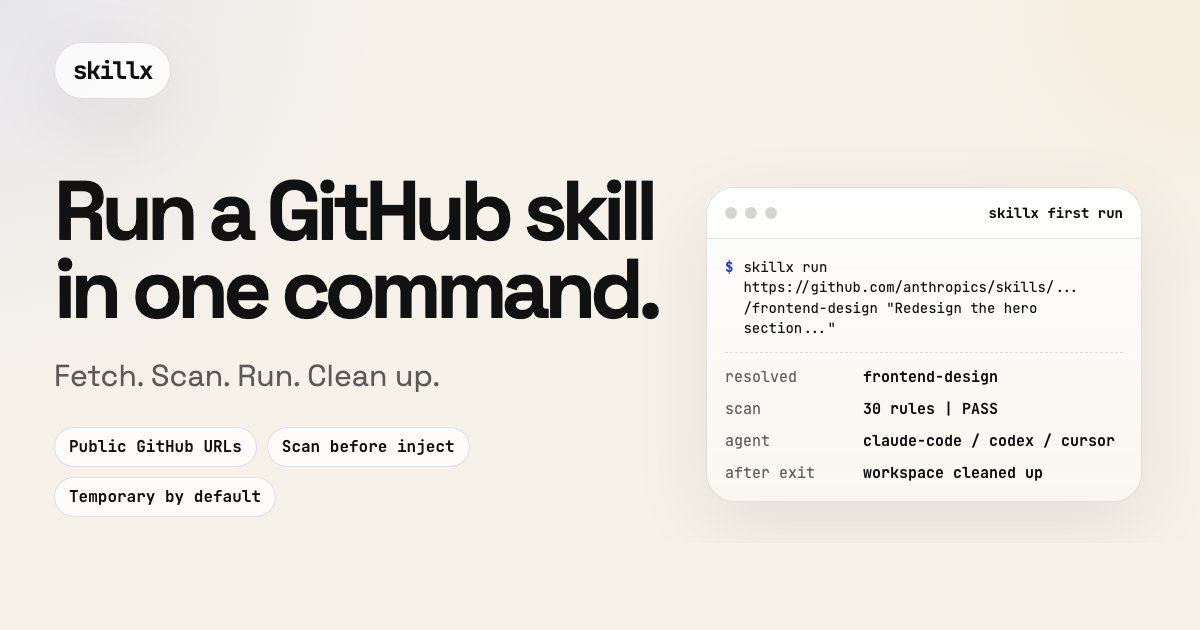
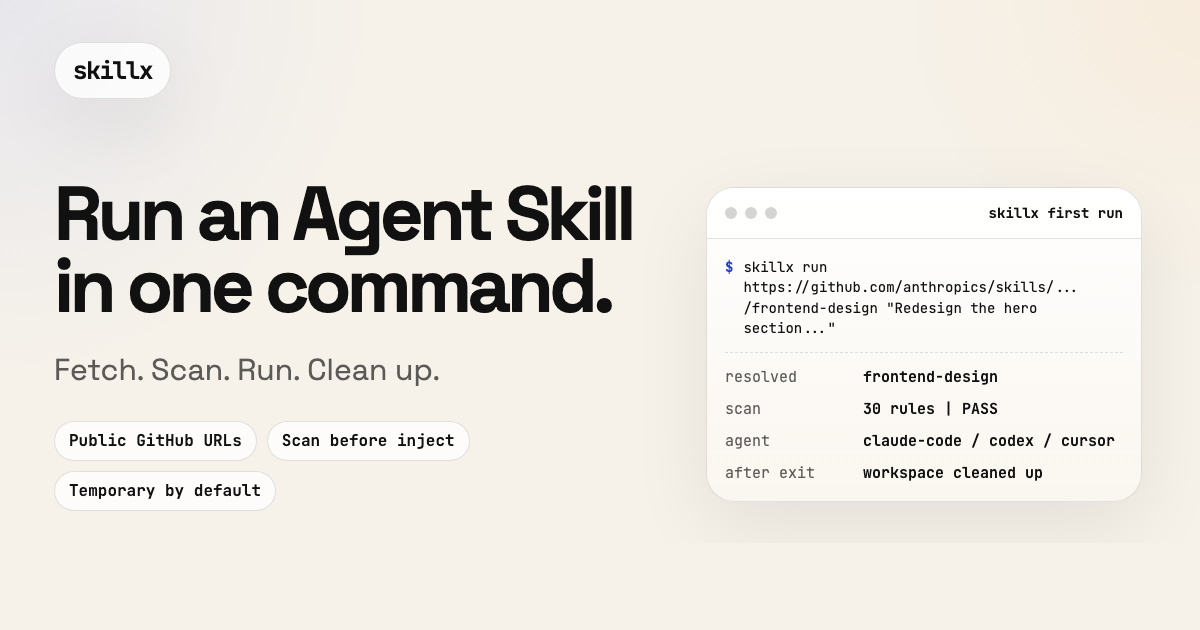
docs(web): rebrand homepage copy from "GitHub skill" to "Agent Skill"
Positioning tweak so the copy reflects the Agent Skills concept instead of
narrowing the product to GitHub sources (skillx actually supports 10
platforms). CLI reference examples that specifically demonstrate fetching
from a GitHub source (scan/info/run headings, troubleshooting entry) are
left unchanged.

Scope:
- Home hero/value-split/use-cases/mechanism/final-cta components
- Page title/description, footer, OG image (HTML + regenerated PNG)
- Starlight sidebar label, getting-started + famous-skills + faq + examples
- assert-homepage smoke checks updated to match new strings

Also shrinks OG image H1 to 76px so "Run an Agent Skill" fits without
pushing the trust chips off the 1200x630 canvas.

diff --git a/web/scripts/og-image.html b/web/scripts/og-image.html
@@ -85,9 +85,9 @@
 
       h1 {
         margin: 0;
-        font-size: 84px;
-        line-height: 0.93;
-        letter-spacing: -0.07em;
+        font-size: 76px;
+        line-height: 0.95;
+        letter-spacing: -0.06em;
       }
 
       .supporting {
@@ -206,7 +206,7 @@
 
       <div class="hero">
         <div class="copy">
-          <h1>Run a GitHub skill in one command.</h1>
+          <h1>Run an Agent Skill in one command.</h1>
           <p class="supporting">Fetch. Scan. Run. Clean up.</p>
           <div class="trust-strip">
             <span>Public GitHub URLs</span>

diff --git a/web/src/content/docs/getting-started/faq.md b/web/src/content/docs/getting-started/faq.md
@@ -54,7 +54,7 @@ That is the point where [Manage Project Skills](/guides/manage-project-skills/) 
 
 They serve different jobs:
 
-- [Famous Skills](/getting-started/famous-skills/) are curated external GitHub skills chosen for immediate usefulness
+- [Famous Skills](/getting-started/famous-skills/) are curated external Agent Skills chosen for immediate usefulness
 - [Official Examples](/examples/overview/) are stable first-party examples in this repository for learning structure and patterns
 
 If you want the fastest convincing first run, start with Famous Skills. If you want to understand how skills are put together or copy a template, use Official Examples.
@@ -77,9 +77,9 @@ In practice that usually means:
 
 Legacy compatibility URLs may still resolve, but they are not the recommended discovery path.
 
-## Should I start with a local example or an external GitHub skill?
+## Should I start with a local example or an external Agent Skill?
 
-Start with an external GitHub skill if your goal is to judge product value quickly.
+Start with an external Agent Skill if your goal is to judge product value quickly.
 
 Start with a local example if your goal is to learn skill structure or inspect every file closely.
 

diff --git a/web/src/content/docs/examples/overview.md b/web/src/content/docs/examples/overview.md
@@ -3,7 +3,7 @@ title: Official Examples
 description: Official example skills included in the skillx repository and how they differ from Famous Skills.
 ---
 
-Official Examples live in this repository and are designed to teach skill structure, patterns, and file layouts you can reuse. Each example page now starts with a GitHub source you can run directly from the docs, then shows the equivalent local repository path when you want to study or modify the example in a clone of this repo. Famous Skills are different: they are curated external GitHub skills that you can run directly when you want a ready-made workflow from an upstream source.
+Official Examples live in this repository and are designed to teach skill structure, patterns, and file layouts you can reuse. Each example page now starts with a GitHub source you can run directly from the docs, then shows the equivalent local repository path when you want to study or modify the example in a clone of this repo. Famous Skills are different: they are curated external Agent Skills that you can run directly when you want a ready-made workflow from an upstream source.
 
 ## Official Example Entrypoints
 

diff --git a/web/src/content/docs/getting-started/famous-skills.md b/web/src/content/docs/getting-started/famous-skills.md
@@ -1,9 +1,9 @@
 ---
 title: Famous Skills
-description: Curated external GitHub skills you can run immediately with skillx.
+description: Curated external Agent Skills you can run immediately with skillx.
 ---
 
-Famous Skills are curated external GitHub skills from well-known repositories. They are ranked for immediate usefulness: start with the one that matches your current task, then move to the others when you need a narrower workflow.
+Famous Skills are curated external Agent Skills from well-known repositories. They are ranked for immediate usefulness: start with the one that matches your current task, then move to the others when you need a narrower workflow.
 
 If you only try one, start with **Frontend Design**. It still gives the strongest end-to-end first run: a concrete prompt produces visible output, and it is the easiest way to judge whether a curated skill feels worth adopting.
 

diff --git a/web/src/content/docs/getting-started/first-run.md b/web/src/content/docs/getting-started/first-run.md
@@ -1,6 +1,6 @@
 ---
 title: First Run
-description: The shortest path to a successful skillx run with a real GitHub skill.
+description: The shortest path to a successful skillx run with a real Agent Skill.
 ---
 
 ## 1. Install skillx
@@ -11,9 +11,9 @@ If you have not installed skillx yet, use the recommended install command:
 curl -fsSL https://skillx.run/install.sh | sh
 ```
 
-## 2. Run a Real GitHub Skill
+## 2. Run a Real Agent Skill
 
-Use the same public GitHub skill featured on the landing page:
+Use the same public Agent Skill featured on the landing page:
 
 ```bash
 skillx run github:anthropics/skills/skills/frontend-design "Redesign the hero section of this landing page for higher conversion. Keep the existing stack and return production-ready code."

diff --git a/web/src/content/docs/getting-started/index.md b/web/src/content/docs/getting-started/index.md
@@ -13,7 +13,7 @@ curl -fsSL https://skillx.run/install.sh | sh
 skillx run github:anthropics/skills/skills/frontend-design "Redesign the hero section of this landing page for higher conversion. Keep the existing stack and return production-ready code."
 ```
 
-skillx gives you a zero-install way to fetch, scan, inject, run, and clean up Agent Skills in one command. If you want the same high-signal first run shown on the landing page, start with the GitHub skill above.
+skillx gives you a zero-install way to fetch, scan, inject, run, and clean up Agent Skills in one command. If you want the same high-signal first run shown on the landing page, start with the Agent Skill above.
 
 ## Next Steps
 

diff --git a/web/src/content/docs/getting-started/installation.md b/web/src/content/docs/getting-started/installation.md
@@ -200,7 +200,7 @@ For the full list of first-run and source-resolution problems, see [Troubleshoot
 
 ## Next Step
 
-- [First Run](/getting-started/first-run/) - prove the install with a real GitHub skill
+- [First Run](/getting-started/first-run/) - prove the install with a real Agent Skill
 - [Famous Skills](/getting-started/famous-skills/) - explore the most useful starter skills
 - [Security Overview](/security/overview/) - learn how skillx scans before it runs
 - [Troubleshooting](/getting-started/troubleshooting/) - debug install and agent-detection problems
